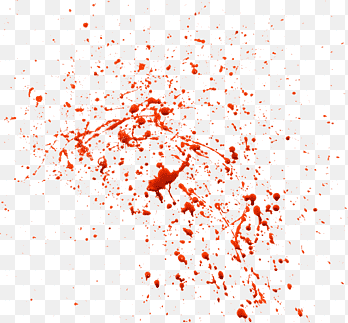
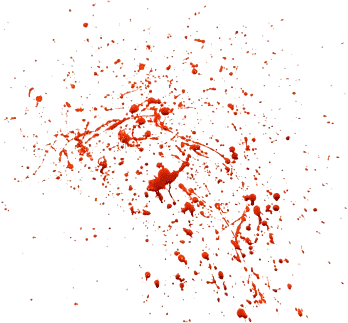
fusion

diff --git a/main.py b/main.py
@@ -1,0 +1,244 @@
+import pygame
+import random
+import sys
+
+# Initialize Pygame
+pygame.init()
+
+# Constants
+WIDTH = 900
+HEIGHT = 600
+MID_WIDTH = WIDTH * 0.5
+MID_HEIGHT = HEIGHT * 0.5
+RED = (217, 1, 21)   
+TANGERINE = (255, 127, 0)
+FPS = 60
+DROP_SPEED = 10 
+
+# Set up the display
+DISPLAYSURF = pygame.display.set_mode((WIDTH, HEIGHT))
+pygame.display.set_caption('Fruit Slicer')
+background_image_game = pygame.image.load("assets/massacre.jpg")
+background_image_game = pygame.transform.scale(background_image_game, (WIDTH, HEIGHT)) 
+DISPLAYSURF.blit(background_image_game, (0, 0))
+
+# Function to draw button
+def draw_button(text, x, y, hover=False):
+    """ function to create a button"""
+    font = pygame.font.Font('fonts/DoubleFeature20.ttf', 60)
+    color = RED if hover else TANGERINE
+    text_surface = font.render(text, True, color)
+    text_rect = text_surface.get_rect(center=(x , y))
+    DISPLAYSURF.blit(text_surface, text_rect)
+    return text_rect
+
+def game_over_screen(total_score):
+
+    DISPLAYSURF = pygame.display.set_mode((WIDTH, HEIGHT))
+    pygame.display.set_caption('Fruit Slicer')
+    background_image_game = pygame.image.load("assets/massacre_tronconneuse.jpg")
+    background_image_game = pygame.transform.scale(background_image_game, (WIDTH, HEIGHT)) 
+    DISPLAYSURF.blit(background_image_game, (0, 0))
+
+    # blood_image = pygame.image.load("assets/flaque1.png").convert_alpha()
+    # blood_image = pygame.transform.smoothscale(blood_image, (500, 500))
+    # DISPLAYSURF.blit(blood_image, (150, 50))
+
+    game_over_text = "GAME OVER"
+    font_game_over_text = pygame.font.Font('fonts/DoubleFeature20.ttf', 100)
+    game_over_text_surf = font_game_over_text.render(game_over_text, True, RED)
+    game_over_text_rect = game_over_text_surf.get_rect(center=(MID_WIDTH, MID_HEIGHT - 100))
+    DISPLAYSURF.blit(game_over_text_surf, game_over_text_rect)
+
+    score_text = f"ton score est : {total_score} !"
+    font_score_text = pygame.font.Font('fonts/DoubleFeature20.ttf', 40)
+    score_text_surf = font_score_text.render(score_text, True, RED)
+    score_text_rect = score_text_surf.get_rect(center = (MID_WIDTH, MID_HEIGHT + 40))
+    DISPLAYSURF.blit(score_text_surf, score_text_rect)
+
+    while True: 
+        mouse_x, mouse_y = pygame.mouse.get_pos()
+        button_rect = draw_button("MENU", MID_WIDTH, 550, button_rect.collidepoint(mouse_x, mouse_y) if 'button_rect' in locals()else False)
+
+        for event in pygame.event.get():
+            if event.type == pygame.QUIT:
+                pygame.quit()
+                sys.exit()
+
+            if event.type == pygame.MOUSEBUTTONDOWN and button_rect.collidepoint(mouse_x, mouse_y):
+                menu()
+
+        pygame.display.update()
+
+
+
+def display_score(total_score):
+    score = f"score : {total_score}"
+    font_score = pygame.font.Font('fonts/DoubleFeature20.ttf', 35)
+    score_surf = font_score.render(score, True, RED)
+    score_rect = score_surf.get_rect(topleft = (10, 10))
+    DISPLAYSURF.blit(score_surf, score_rect)
+
+def display_lives(lives):
+    """ display heart pictures to count down lives """
+    x_heart = 5
+    for i in range(0, lives):
+        heart_surface =pygame.image.load("assets/heart.png").convert_alpha() 
+        heart_surface = pygame.transform.scale(heart_surface, (60, 60))
+        DISPLAYSURF.blit(heart_surface, (x_heart, 60))
+        x_heart += 60
+
+# Function to display the Menu screen
+def menu(): 
+    # background design
+    background_image = pygame.image.load("assets/massacre_tronconneuse.jpg")
+    background_image = pygame.transform.scale(background_image, (WIDTH, HEIGHT))
+    DISPLAYSURF.blit(background_image, (0, 0)) 
+
+    # Display title
+    text = "FRUIT SLICER"
+    font_text = pygame.font.Font('fonts/DoubleFeature20.ttf', 100)
+    text_surf = font_text.render(text, True, RED)
+    text_rect = text_surf.get_rect(center=(MID_WIDTH, 100))
+    DISPLAYSURF.blit(text_surf, text_rect)
+
+    while True: 
+        mouse_x, mouse_y = pygame.mouse.get_pos()
+        button1_rect = draw_button("JOUER", MID_WIDTH, MID_HEIGHT - 40, button1_rect.collidepoint(mouse_x, mouse_y) if 'button1_rect' in locals()else False)
+        button2_rect = draw_button("SCORES", MID_WIDTH, MID_HEIGHT + 80, button2_rect.collidepoint(mouse_x, mouse_y) if 'button2_rect' in locals()else False)
+
+        for event in pygame.event.get():
+            if event.type == pygame.QUIT:
+                pygame.quit()
+                sys.exit()
+
+            if event.type == pygame.MOUSEBUTTONDOWN and button1_rect.collidepoint(mouse_x, mouse_y):
+                total_score = game_loop()
+                game_over_screen(total_score)
+
+            if event.type == pygame.MOUSEBUTTONDOWN and button2_rect.collidepoint(mouse_x, mouse_y):
+                # add code
+                pass
+
+        pygame.display.update()
+
+# Function to select and position an item randomly
+def create_random_item():
+    """Function that creates a target with a random letter and position."""
+    items = ["abricot", "ananas", "chamallow", "citron", "courge", "fraise", "glacon", "grenade", "grenade", "grenade", "kiwi", "melon",
+              "noix-coco", "noix-kungfu", "orange", "pamplemousse", "passion", "pasteque", "poire", "pomme-pelee", "pomme"]
+    item = random.choice(items)
+    letter = random.choice("ABCDEFGHIJKLMNOPQRSTUVWXYZ")
+    x = random.randint(0, WIDTH - 85)  # Random x position minus size of item
+    y = 0  # Start from the top of the screen
+
+    # Surface pour l'image :
+    image_surface = pygame.image.load("assets/" + item + ".png").convert_alpha()
+    image_surface = pygame.transform.scale(image_surface, (85, 85))
+    font = pygame.font.Font(None, 40) # attention changer la font !!!
+    letter_render = font.render(letter, True, (RED))
+    image_surface.blit(letter_render, (10, 60))
+
+    return item, letter, y, image_surface, image_surface.get_rect(topleft=(x, y))
+
+def game_loop():
+    clock = pygame.time.Clock()
+    target_list = []
+    generate_new_item = 0
+    lives = 3
+    total_score =0
+    current_score = 0
+
+    run = True
+    while run:
+        for event in pygame.event.get():
+            if event.type == pygame.QUIT:
+                pygame.quit()
+                sys.exit()
+
+            if event.type == pygame.KEYDOWN:
+                letter_input = pygame.key.name(event.key).upper()
+
+                for i in range(0, len(target_list)):
+                    if letter_input == target_list[i]['letter']:
+                        print(f"letter input : {letter_input}")
+                        print(f"fruit : {target_list[i]}")
+                        if target_list[i]['item'] == "grenade":
+                            run = False
+                        elif target_list[i]['item'] == "glacon":
+                            print("gele temps == freezes time")
+                            # freezes new items generation
+                            # for 3 seconds
+                            current_score += 1
+                        else :
+                            current_score += 1
+            
+                # combo score
+                if current_score > 2:
+                    current_score -= 1  
+
+                total_score += current_score
+                current_score = 0
+            
+                # when user presses a key that is equal to the letter of the item
+                # or the letter of more than 1 item
+                # corresponding items disappear
+                target_list = [obj for obj in target_list if obj['letter'] != letter_input]
+
+        # Variable that controls the frequency of new items being created. (if FPS = 60 then 30 frames = 0.5 seconds)
+        generate_new_item += 2 # increments by 2 on each iteration of the loop
+        if generate_new_item >= 30:  # at 30 a new item is created by calling create_random_item()
+            item, letter, y, surface, rect = create_random_item() # returns the item details (including its position)
+            target_list.append({'item': item, 'letter': letter, 'y': y, 'surface': surface, 'rect': rect}) # new item is added to the target_list
+            generate_new_item = 0 # reset to 0
+
+        # Update positions of falling items
+        for obj in target_list:
+            obj['rect'].y += DROP_SPEED  # we can change this speed in the constants 
+
+        # Clear the screen
+        background_image = pygame.image.load("assets/massacre.jpg")
+        background_image = pygame.transform.scale(background_image, (WIDTH, HEIGHT))
+        DISPLAYSURF.blit(background_image, (0, 0))
+
+        # Draw all falling items
+        for obj in target_list:
+            DISPLAYSURF.blit(obj['surface'], obj['rect'].topleft)
+
+        # Remove one life for each fruit fellen off the screen
+        for obj in target_list :
+            if obj['rect'].y >= HEIGHT:
+                if obj['item'] != "grenade" or obj['item'] != "glacon":
+                    lives -= 1
+        
+        # game over if no more life
+            if lives == 0 :
+                run = False  
+
+        # Remove items that have fallen off the screen
+        target_list = [obj for obj in target_list if obj['rect'].y < HEIGHT]
+
+
+        display_score(total_score)
+        display_lives(lives)
+
+        # Update the display
+        pygame.display.flip()
+        clock.tick(FPS)
+
+    return total_score
+
+
+# Main function to run the game
+def main():
+    while True: 
+        for event in pygame.event.get():
+            if event.type == pygame.QUIT:
+                pygame.quit()
+
+            menu()
+            
+        pygame.display.update()
+
+if __name__ == "__main__":
+    main()
